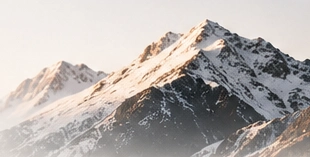
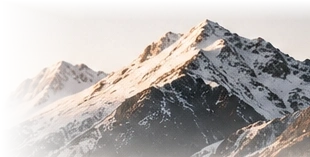
Serve verified source covers and align navigation and mobile reading order

Changed region(s): [[0.0, 0.4331, 0.2032, 1.0], [0.3194, 0.0, 1.0, 0.0764], [0.2323, 0.0, 0.2613, 0.0255]]

diff --git a/radar/read/index.html b/radar/read/index.html
@@ -34,10 +34,10 @@ a,.nav a,.crumb a,.category,.eyebrow{color:var(--copper-ink)!important}
 }
 body[data-reader-size="large"] .dek,body[data-reader-size="large"] .section p{font-size:calc(1em * 1.12)!important}
 body[data-reader-size="larger"] .dek,body[data-reader-size="larger"] .section p{font-size:calc(1em * 1.24)!important}
-</style><link rel="stylesheet" href="../assets/editorial.css"></head>
+</style><link rel="stylesheet" href="../assets/editorial.css"><script src="../assets/edition-media.js"></script></head>
 <body>
 <div class="wrap">
-<header class="masthead"><a class="brand" href="../daily/">AI RADAR <small style="font:9px Inter,sans-serif;letter-spacing:.12em;color:#686C66"> BY DAVYLAB</small></a><nav class="nav" aria-label="栏目导航"><a id="navToday" href="../daily/" data-nav="today">今日</a><a id="navChina" href="../daily/#news" data-nav="china">发现</a><a id="navDeep" href="../daily/#ai" aria-current="page" data-nav="deep">深读</a><a id="navTools" href="../daily/#skills" data-nav="tools">知识库</a><a id="navArchive" href="/niantou-box-app/#/" data-nav="archive">我的</a></nav><div class="lang" role="group" aria-label="语言"><button class="active" id="zh">中文</button><button id="en">EN</button></div></header>
+<header class="masthead"><a id="mobileBack" class="reader-back" aria-label="返回本期简报" href="../daily/">‹</a><a class="brand" href="../daily/">AI RADAR <small style="font:9px Inter,sans-serif;letter-spacing:.12em;color:#686C66"> BY DAVYLAB</small></a><nav class="nav" id="readerSections" aria-label="栏目导航"><a id="navToday" href="../daily/" data-nav="today">今日</a><a id="navChina" href="../daily/#news" data-nav="china">发现</a><a id="navDeep" href="../daily/#ai" aria-current="page" data-nav="deep">深读</a><a id="navTools" href="../daily/#skills" data-nav="tools">知识库</a><a id="navArchive" href="/niantou-box-app/#/" data-nav="archive">我的</a></nav><div class="lang" role="group" aria-label="语言"><button class="active" id="zh">中文</button><button id="en">EN</button></div><button id="readerMenu" aria-expanded="false" aria-controls="readerSections" aria-label="栏目导航" type="button">☰</button></header>
 <div class="crumb"><a id="backBrief" href="../daily/" data-nav="back">← 返回每日简报</a><span>/</span><span id="crumbType">深度阅读</span></div>
 <main id="content"><div class="eyebrow">DAVYLAB AI RADAR · DEEP READ</div><div class="empty" role="status">正在读取这篇情报…</div></main>
 <footer class="footer">Davy Radar · 看见趋势，发现机会。<span id="footerDate" style="float:right"></span></footer>
@@ -48,6 +48,14 @@ const q=new URLSearchParams(location.search),type=q.get("type")||"top5",id=Numbe
 const safeDate=/^\d{4}-\d{2}-\d{2}$/.test(date)?date:"",dataUrl=safeDate?"../data/archive/"+encodeURIComponent(safeDate)+".json":"../data/latest.json";
 const esc=x=>String(x??"").replace(/[&<>"']/g,c=>({"&":"&amp;","<":"&lt;",">":"&gt;",'"':"&quot;","'":"&#39;"}[c]));
 const $=id=>document.getElementById(id),isEn=()=>langState.value==="en",text=(zh,en)=>isEn()?en:zh;
+$("readerMenu").onclick=()=>{
+ const open=$("readerMenu").getAttribute("aria-expanded")!=="true";
+ $("readerMenu").setAttribute("aria-expanded",String(open));
+ $("readerSections").classList.toggle("expanded",open);
+};
+if(safeDate){
+ for(const id of ["backBrief","mobileBack","navToday"]) $(id).href="../daily/?date="+encodeURIComponent(safeDate);
+}
 const labels={innovation:["创新性","Innovation"],practicality:["实用性","Practicality"],feasibility:["可行性","Feasibility"],impact:["影响力","Impact"],opportunity:["机会价值","Opportunity"]};
 function showToast(s){const n=$("toast");n.textContent=s;n.classList.add("show");setTimeout(()=>n.classList.remove("show"),2200)}
 function section(title,value,cls=""){return value?'<section class="section '+cls+'"><h2>'+esc(title)+'</h2><p>'+esc(value)+'</p></section>':''}
@@ -65,18 +73,18 @@ function render(d,items){const story=(items||[])[id];if(!story){$("content").inn
  const generatedIllustration=String(x.source_url||x.url||"")==="https://chenqiyuan.cn/article/intel-81f8f3420e53b13ac744eb66"
    &&String(x.image_match_status||"")==="thematic_fallback"
    &&/Gemini Robotics 2\.5/i.test(String(name||""));
- const image=generatedIllustration?"../assets/radar-robotics-dexterity-illustration.jpg":(/^https:\/\//i.test(x.image_url||"")?x.image_url:"");
+ const image=editionImage(x)||(generatedIllustration?"../assets/radar-robotics-dexterity-illustration.jpg":(/^https:\/\//i.test(x.image_url||"")?x.image_url:""));
  const imageAlt=generatedIllustration
    ?text("AI 生成概念插画：机器人灵巧性示意，非报道现场照片。","AI-generated conceptual illustration of robotic dexterity; not a photograph of the reported event.")
    :(x.image_alt||name);
  const imageCaption=generatedIllustration
    ?text("AI 生成概念插画 · 非新闻现场照片","AI-generated conceptual illustration · not a news photograph")
-   :(x.image_alt||"");
+   :(xnews?text("原文配图 · ","Source image · ")+new URL(sourceSafe||curatedSafe||location.href).hostname:(x.image_alt||""));
  const evidence=x.confidence?text("判断把握：","Confidence: ")+({low:text("低 · 待独立验证","Low · verify independently"),medium:text("中","Medium"),high:text("高","High")}[String(x.confidence).toLowerCase()]||esc(x.confidence)):"";
  const notice=xnews?text("该内容来自 X News 的二次编辑整理；此页面展示已收录的摘要，不代表 DAVYLAB 对原文主张作出独立核验。","This item is an X News editorial summary. This page presents the collected summary; DAVYLAB has not independently verified the source claims."):text("摘要、编辑判断与行动提示均来自该期日报数据。涉及厂商自述或媒体转述的数字，请以原始来源和独立验证为准。","Summary, editorial judgment and next steps are drawn from this briefing. Verify vendor claims and reported figures against the original source.");
  $("crumbType").textContent=text("深度阅读","Deep read");$("footerDate").textContent=d.report_date||"";
  document.title=esc(name)+" · 深度阅读 · DAVYLAB";
- $("content").innerHTML='<div class="eyebrow">'+(xnews?"X NEWS · DAVYLAB DEEP READ":"DAVYLAB AI RADAR · DEEP READ")+'</div><span class="category">'+esc(category)+'</span><div class="layout"><article class="story"><h1 class="title">'+esc(name||"AI 情报")+'</h1><p class="dek">'+esc(summary||what||text("本条日报未提供摘要，请打开原始来源阅读。","No summary was included in this briefing. Open the original source for details."))+'</p>'+'<div class="provenance"><span><strong>'+text("来源","Source")+'</strong> · '+esc(x.source||"AI Radar")+'</span><span><strong>'+text("发布时间","Published")+'</strong> · '+esc(published)+'</span>'+(evidence?'<span><strong>'+esc(evidence)+'</strong></span>':'')+'</div>'+(image?'<img class="cover" src="'+esc(image)+'" alt="'+esc(imageAlt)+'" loading="eager" referrerpolicy="no-referrer" onerror="this.hidden=true">'+(imageCaption?'<p class="caption">'+esc(imageCaption)+'</p>':''):'')+section(xnews?text("核心观点","Key point"):text("发生了什么","What happened"),what,xnews?"judgment":"")+section(text("为什么值得关注","Why it matters"),why)+section(text("核心观点 · 编辑判断","Key point · Editorial judgment"),judgment,"judgment")+section(text("机会与风险","Opportunity and risk"),risk)+section(text("可以继续做什么","A next step"),action)+scoreBlock(x.scores)+'</article><aside class="rail"><h2>'+text("阅读说明","READING NOTES")+'</h2><p>'+esc(notice)+'</p><div class="notice" '+(xnews?"":"hidden")+'>'+esc(text("X News 中文编辑链接保留在下方，原文请优先查阅。","The X News editorial link is retained below; consult the original source first."))+'</div><div class="rail-links">'+(sourceSafe?'<a class="primary" href="'+esc(sourceSafe)+'" target="_blank" rel="noopener noreferrer">'+text("打开原始来源 ↗","Open original source ↗")+'</a>':'')+(curatedSafe?'<a href="'+esc(curatedSafe)+'" target="_blank" rel="noopener noreferrer">'+text("X News 中文解读 ↗","X News editorial ↗")+'</a>':'')+'<button class="action" id="share">'+text("复制本页链接","Copy this page link")+'</button><a href="../daily/'+(safeDate?"?date="+encodeURIComponent(safeDate):"")+'">'+text("回到本期简报","Return to this briefing")+'</a></div><p>'+text("归档日期","Archive date")+' · '+esc(d.report_date||"—")+'</p></aside></div>';
+ $("content").innerHTML='<div class="eyebrow">'+(xnews?"X NEWS · DAVYLAB DEEP READ":"DAVYLAB AI RADAR · DEEP READ")+'</div><span class="category">'+esc(category)+'</span><div class="layout"><article class="story"><h1 class="title">'+esc(name||"AI 情报")+'</h1><p class="dek'+(xnews && summary===what ? ' repeated-excerpt' : '')+'">'+esc(summary||what||text("本条日报未提供摘要，请打开原始来源阅读。","No summary was included in this briefing. Open the original source for details."))+'</p>'+'<div class="provenance"><span><strong>'+text("来源","Source")+'</strong> · '+esc(x.source||"AI Radar")+'</span><span><strong>'+text("发布时间","Published")+'</strong> · '+esc(published)+'</span>'+(evidence?'<span><strong>'+esc(evidence)+'</strong></span>':'')+'</div>'+(image?'<img class="cover" src="'+esc(image)+'" alt="'+esc(imageAlt)+'" loading="eager" referrerpolicy="no-referrer" onerror="this.hidden=true">'+(imageCaption?'<p class="caption">'+esc(imageCaption)+'</p>':''):'')+section(xnews?text("核心观点","Key point"):text("发生了什么","What happened"),what,xnews?"judgment":"")+section(text("为什么值得关注","Why it matters"),why)+section(text("核心观点 · 编辑判断","Key point · Editorial judgment"),judgment,"judgment")+section(text("机会与风险","Opportunity and risk"),risk)+section(text("可以继续做什么","A next step"),action)+scoreBlock(x.scores)+'</article><aside class="rail"><h2>'+text("阅读说明","READING NOTES")+'</h2><p>'+esc(notice)+'</p><div class="notice" '+(xnews?"":"hidden")+'>'+esc(text("X News 中文编辑链接保留在下方，原文请优先查阅。","The X News editorial link is retained below; consult the original source first."))+'</div><div class="rail-links">'+(sourceSafe?'<a class="primary" href="'+esc(sourceSafe)+'" target="_blank" rel="noopener noreferrer">'+text("打开原始来源 ↗","Open original source ↗")+'</a>':'')+(curatedSafe?'<a href="'+esc(curatedSafe)+'" target="_blank" rel="noopener noreferrer">'+text("X News 中文解读 ↗","X News editorial ↗")+'</a>':'')+'<button class="action" id="share">'+text("复制本页链接","Copy this page link")+'</button><a href="../daily/'+(safeDate?"?date="+encodeURIComponent(safeDate):"")+'">'+text("回到本期简报","Return to this briefing")+'</a></div><p>'+text("归档日期","Archive date")+' · '+esc(d.report_date||"—")+'</p></aside></div>';
  const share=$("share");if(share)share.onclick=async()=>{try{await navigator.clipboard.writeText(location.href);showToast(text("链接已复制","Link copied"))}catch{showToast(text("无法访问剪贴板，请手动复制地址栏链接。","Clipboard unavailable. Copy the address bar link."))}};
 }
 function switchLang(next){langState.value=next;const nav={today:["今日","Today"],deep:["深读","Deep reads"],china:["发现","Discover"],tools:["知识库","Library"],archive:["我的","Saved"],back:["← 返回每日简报","← Back to briefing"]};document.querySelectorAll("[data-nav]").forEach(n=>{const pair=nav[n.dataset.nav];if(pair)n.textContent=pair[next==="en"?1:0]});document.querySelectorAll("[data-nav=deep]").forEach(n=>n.href=location.href);$("zh").classList.toggle("active",next==="zh");$("en").classList.toggle("active",next==="en");document.documentElement.lang=next==="zh"?"zh-CN":"en";if(window.briefData)render(window.briefData,window.storyList);refreshReaderControlLabels()}

diff --git a/radar/daily/index.html b/radar/daily/index.html
@@ -1067,11 +1067,11 @@ a,.nav-right>a,.archive-button,.top5-card .meta a,.footer a{color:var(--copper-i
 .story-image--generated{background:#D8D2C8!important}
 .story-image--generated img{object-position:72% center!important}
 .editorial-illustration-tag{position:absolute;top:12px;right:12px;z-index:4;padding:5px 8px;border:1px solid rgba(32,35,32,.18);border-radius:2px;background:rgba(247,245,240,.96);color:var(--ink);font:600 9px/1.2 var(--sans);letter-spacing:.045em}
-</style><link rel="stylesheet" href="../assets/editorial.css"></head>
+</style><link rel="stylesheet" href="../assets/editorial.css"><script src="../assets/edition-media.js"></script></head>
 <body><div class="wrap">
 <nav class="nav"><a class="brand" href="../daily/" aria-label="AI Radar by DAVYLAB">AI RADAR <small>BY DAVYLAB</small></a><div class="primary-nav" aria-label="主导航"><a aria-current="page" href="#ai" data-i18n="navToday">今日</a><a href="#news" data-i18n="navDiscover">发现</a><a id="deepReadNav" href="#top5List" data-i18n="navDeep">深读</a><a href="#skills" data-i18n="navKnowledge">知识库</a><a href="https://chenzhe223-tech.github.io/niantou-box-app/#/" target="_blank" rel="noopener noreferrer" data-i18n="navMine">我的</a></div><div class="nav-right"><button class="edition-search" aria-label="搜索本期简报 / Search this issue" type="button" id="openSearch"><span class="glass" aria-hidden="true"></span></button><a class="subscribe" href="../data/brief.xml" data-i18n="subscribe">订阅</a><div class="lang-switch" role="group" aria-label="语言 / Language"><button class="lang-btn active" id="langZh" type="button" aria-pressed="true" onclick="setLang('zh')">中文</button><button class="lang-btn" id="langEn" type="button" aria-pressed="false" onclick="setLang('en')">EN</button></div><a href="../" data-i18n="back">← 返回 Davy Radar</a></div></nav>
 <header><div class="hero-panel"><div class="hero-kicker"><i></i><span data-i18n="kicker">GLOBAL AI INTELLIGENCE</span></div><div class="brief-date-bar" aria-label="简报日期与历史简报"><div class="brief-date-copy"><span class="brief-eyebrow">DAILY BRIEFING</span><div class="brief-date-line"><span data-i18n="todayBrief">今日简报</span><strong id="reportDate">正在读取日报…</strong></div><span id="reportDateFull" class="date-full"></span></div><div class="brief-date-actions"><label for="archiveDate" class="archive-button"><span aria-hidden="true">▦</span><span data-i18n="archiveLabel">历史简报</span><span aria-hidden="true">⌄</span></label><select id="archiveDate" aria-label="选择历史简报日期"><option value="">加载历史记录…</option></select></div></div><div class="hero"><div class="hero-copy"><h1 id="featureTitle" data-i18n="heroTitle">理解 AI 世界的每一天。</h1><p class="sub" id="featureSub" data-i18n="heroSub">全球 AI 新闻、技术突破与深度观点，一站阅读。</p><div class="hero-actions"><a href="#news" data-i18n="exploreNews">✦ 看看今天发生了什么</a><a class="secondary" href="#skills" data-i18n="exploreSkills">⌘ 发现可用工具</a></div></div></div></div>
-<nav class="tabs" aria-label="简报栏目"><a class="tab active" href="#ai" data-i18n="tabInsights">✨ 今日观察</a><a class="tab" href="#chinaAI" data-i18n="tabChina">🇨🇳 中国 AI 动态</a><a class="tab" href="#dailySkill" data-i18n="tabDailySkill">✦ 今日 Skill 推荐</a><a class="tab" href="#skills" data-i18n="tabSkills">🧰 创作工具箱</a><a class="tab" href="#news" data-i18n="tabMore">更多 →</a></nav></header>
+<nav class="tabs" aria-label="简报栏目"><a class="tab active" href="#ai" data-i18n="navToday">今日</a><a class="tab" href="#news" data-i18n="navDiscover">发现</a><a class="tab" id="deepReadTab" href="#xnewsVoicesSection" data-i18n="navDeep">深读</a><a class="tab" href="#chinaAI" data-i18n="navChina">中国 AI</a><a class="tab" href="#skills" data-i18n="navResearch">研究</a></nav></header>
 <section id="ai" aria-label="今日头条与五大热点"><div class="section-head"><h2><span class="section-icon">✨</span><span data-i18n="aiHeading">今日观察 · AI 机会研判</span></h2><p data-i18n="aiSub">编辑精选 · 事实、影响与行动</p></div><div id="aiList" class="list"><div class="empty">今日五大热点正在生成…</div></div><article id="leadStory" class="lead-story" aria-label="今日头条"><div class="empty">正在读取今日头条…</div></article><div id="editorialCore" class="editorial-core" hidden></div><div id="top5List" class="top5-grid"><div class="empty">正在读取五大热点…</div></div></section>
 <div class="secondary-editorial-grid"><section id="xnewsVoicesSection" style="display:none"><div class="section-head"><h2><span class="section-icon">🌍</span><span>海外深度 · X News 精读</span></h2><p>创始人观点 · AI 视频 · 原文可追溯</p></div><p class="section-intro">来自 <a href="https://xnews.qiaomu.ai/" target="_blank" rel="noopener noreferrer">X News · 海外发现</a> 的补充阅读线索。保留原作者出处与中文编辑解读链接；入选不等于 DAVYLAB 已独立核验其结论。</p><div id="xnewsVoices" class="list"></div></section><section id="chinaAI"><div class="section-head"><h2><span class="section-icon">🇨🇳</span><span data-i18n="chinaHeading">中国 AI 发展动态</span></h2><p data-i18n="chinaSub">国产模型 · 产品应用 · 芯片算力 · 具身智能</p></div><p class="section-intro" data-i18n="chinaIntro">聚焦中国 AI 企业、研究机构与产业落地，只展示带有原文链接和可核验发布时间的近期消息。</p><div id="chinaAINewsList" class="top5-grid china-news-grid"><div class="empty">正在读取中国 AI 动态…</div></div><a class="rail-poster" href="../posters/latest.png" target="_blank" rel="noopener noreferrer"><img src="../posters/latest.png" alt="AI Radar daily poster"><span><strong>今日简报海报</strong><small>AI Daily · 下载高清海报 ↗</small></span></a></section></div>
 <section id="dailySkill"><div class="section-head"><h2><span class="section-icon">✦</span><span>今日推荐 · 值得尝试的 Skill</span></h2><p>功能 · 推荐理由 · 应用范围</p></div><div id="featuredSkill" class="featured-skill"><div class="empty">正在读取今日推荐…</div></div></section>
@@ -1201,7 +1201,7 @@ function storyImageMarkup(x){
 function renderTop5(items){
  const root=$("top5List");if(!root)return;
  const data=(items||[]).slice(0,5);
- const deepUrl=data.length?deepReadHref("top5",0):"../read/";["deepReadNav","deepReadDock"].forEach(id=>{const link=$(id);if(link)link.href=deepUrl});
+ const deepUrl=data.length?deepReadHref("top5",0):"../read/";["deepReadNav","deepReadDock","deepReadTab"].forEach(id=>{const link=$(id);if(link)link.href=deepUrl});
  const dims=[["innovation","dimInnovation"],["practicality","dimPracticality"],["feasibility","dimFeasibility"],["impact","dimImpact"],["opportunity","dimOpportunity"]];
 
  if(data.length<5||data.some(x=>x.fallback||!x.scores||!x.source_url)){
@@ -1268,7 +1268,7 @@ function renderXnewsVoices(items){
   const title=currentLang==="en"?(x.title_en||x.title):(x.title_zh||x.title);
   const summary=currentLang==="en"?(x.summary_en||""):(x.summary_zh||x.summary||"");
   const hasCover=x.image_match_status==="article_image" && /^https:\/\//i.test(x.image_url||"");
-  const cover=hasCover ? '<a class="voice-cover" aria-hidden="true" tabindex="-1" href="'+esc(deepReadHref("xnews",index))+'"><img loading="lazy" referrerpolicy="no-referrer" alt="'+esc(x.image_alt||title)+'" src="'+esc(x.image_url)+'" onerror="this.parentElement.hidden=true"></a>' : "";
+  const cover=hasCover ? '<a class="voice-cover" aria-hidden="true" tabindex="-1" href="'+esc(deepReadHref("xnews",index))+'"><img loading="lazy" referrerpolicy="no-referrer" alt="'+esc(x.image_alt||title)+'" src="'+esc(editionImage(x)||x.image_url)+'" onerror="this.parentElement.hidden=true"></a>' : "";
   return '<article class="item">'+cover+'<div class="num">'+String(i+1).padStart(2,"0")+'</div><div><div class="story-label">X NEWS · '+esc(currentLang==="en"?"International voices":"海外精选")+'</div><h3><a href="'+esc(deepReadHref("xnews",index))+'">'+esc(title)+'</a></h3><p class="explain">'+esc(summary||t("fallbackSummary"))+'</p><div class="meta"><span>'+esc(t("published"))+' · '+esc(dateFmt(x.published))+'</span><span class="pill">'+esc(currentLang==="en"?"Curated · not independently verified":"二次编辑 · 待独立核验")+'</span><a href="'+esc(x.url)+'" target="_blank" rel="noopener noreferrer">'+esc(currentLang==="en"?"Original source ↗":"原作者原文 ↗")+'</a><a href="'+esc(x.curated_url)+'" target="_blank" rel="noopener noreferrer">'+esc(currentLang==="en"?"Chinese editorial ↗":"X News 中文解读 ↗")+'</a></div></div></article>';
  }).join(""):'<div class="empty xnews-empty">'+esc(currentLang==="en"?"No verified X News deep reads are available in this issue.":"本期暂无通过来源校验的 X News 深读。")+' <a href="https://xnews.qiaomu.ai/" target="_blank" rel="noopener noreferrer">'+esc(currentLang==="en"?"Explore X News ↗":"查看 X News 海外发现 ↗")+'</a></div>';
 }
@@ -1317,6 +1317,9 @@ function renderFeatured(items){
  root.classList.toggle("has-image",hasImage);
  root.classList.toggle("text-only",!hasImage);
  root.innerHTML=`<a href="${esc(deep)}" aria-label="${esc(currentLang==="en"?"Open lead story deep read":"打开头条深读")}">${media}<div class="lead-story-copy"><span class="lead-story-label">${esc(leadLabel)}</span><h2>${esc(title||"Untitled story")}</h2><p>${esc(summary||t("fallbackSummary"))}</p><div class="lead-story-meta"><span>${esc(source)} · ${esc(published)}</span><span>${esc(currentLang==="en"?"Deep read →":"深读 →")}</span></div></div></a>`;
+ const leadImage=root.querySelector(".story-image img");
+ if(leadImage && editionImage(story,true)) leadImage.src=editionImage(story,true);
+
 }
 function formatReportDate(dateString){const match=/^(\\d{4})-(\\d{2})-(\\d{2})$/.exec(String(dateString||""));if(!match)return {short:dateString||t("headline"),full:""};const year=Number(match[1]),month=Number(match[2]),day=Number(match[3]);const d=new Date(year,month-1,day,12);const locale=currentLang==="en"?"en-US":"zh-CN";const short=currentLang==="en"?d.toLocaleDateString(locale,{month:"short",day:"numeric"}):`${month}月${day}日`;return {short,full:d.toLocaleDateString(locale,{year:"numeric",month:"long",day:"numeric",weekday:"long"})}}
 function renderAll(data){applyDailyHeroTheme(data.report_date,(data.top5||[])[0]);renderAI(data.ai_analysis);renderEditorial(data);renderFeatured(data.top5||[]);renderTop5(data.top5||[]);renderNews(data.news||[]);renderXnewsVoices(data.xnews_voices||[]);renderChinaAINews(data.china_ai_news||[]);renderSkills(data.skills||[]);renderFeaturedSkill(data.skills||[]);const date=formatReportDate(data.report_date);$("reportDate").textContent=date.short;$("reportDateFull").textContent=date.full;const statusNode=$("status");if(statusNode)statusNode.textContent=t("status")+": "+(data.status||"ok")+" · "+t("sources")+" "+(data.sources_ok??"—")+" / "+(data.sources_total??"—")+" · "+t("scoreNote")}

diff --git a/radar/assets/editorial.css b/radar/assets/editorial.css
@@ -49,7 +49,7 @@ header .hero-panel {
 #chinaAINewsList .china-ai-card { border: 0 !important; border-bottom: 1px solid var(--rule) !important; background: transparent !important; }
 #chinaAINewsList .china-ai-card:not(:first-child) .story-image, #chinaAINewsList .china-ai-card p, #chinaAINewsList .top5-card::after { display: none !important; }
 #chinaAINewsList .top5-content { padding: 8px 0 !important; }
-#chinaAINewsList .top5-rank { display: none !important; }
+#chinaAINewsList .top5-rank { float: left; margin: 8px; }
 #chinaAINewsList a, #xnewsVoices h3 a { color: var(--ink) !important; text-decoration: none; }
 #chinaAINewsList a:hover, #xnewsVoices h3 a:hover { text-decoration: underline; }
 #xnewsVoices .item { border-radius: var(--card-edge); }
@@ -58,22 +58,29 @@ header .hero-panel {
 .story .cover { border-radius: var(--card-edge); }
 .story .title { font-size: clamp(34px,3.5vw,52px) !important; }
 .story .provenance { margin: 14px 0; }
+.story .caption { color: #555a53; }
 .story .judgment { background: #f0e9df; padding: 18px !important; border-radius: 8px; }
+.reader-back, #readerMenu { display: none; }
 @media (min-width: 761px) {
-  .nav:has(.primary-nav) { display: grid !important; grid-template-columns: 1fr auto 1fr; }
+  .nav:has(.primary-nav) { display: grid !important; grid-template-columns: minmax(0,1fr) auto minmax(0,1fr); }
   .nav .nav-right { justify-self: end; }
   .hero-panel .brief-date-actions { margin-left: auto; }
   header .tabs { margin-bottom: 0 !important; }
+  header:has(.hero-panel) .tabs { display: none !important; }
+  #top5List .top5-card { padding: 9px 0 !important; }
 }
 @media (max-width: 760px) {
   .nav-right { margin-left: auto; gap: 4px; }
   .nav-right .subscribe { display: none; }
   header .hero-panel { min-height: 190px !important; padding: 12px 16px !important; background-size: 100% 100%,auto 80% !important; background-position: right bottom !important; }
-  .hero-panel #featureTitle { max-width: 9em !important; font-size: 30px !important; line-height: 1.18 !important; }
+  .hero-panel #featureTitle { max-width: 8em !important; font-size: 30px !important; line-height: 1.18 !important; }
   .hero-panel .brief-date-copy { min-width: 0; }
   header .tabs { gap: 16px !important; }
   #ai > #top5List { width: 100%; }
   #leadStory .lead-story-copy { max-width: 100%; }
+  #leadStory.has-image > a { display: flex; align-items: flex-end; }
+  #leadStory.has-image .lead-story-copy { position: relative !important; inset: auto !important; width: 100%; padding: 16px !important; }
+  .nav .brand small { display: none; }
   #leadStory .lead-story-copy h2 { font-size: 24px !important; line-height: 1.23 !important; }
   #leadStory .lead-story-copy p { display: -webkit-box; -webkit-line-clamp: 2; -webkit-box-orient: vertical; overflow: hidden; }
   #content > .eyebrow, #content > .category { display: none; }
@@ -84,4 +91,12 @@ header .hero-panel {
   .story .provenance { order: -2; padding: 8px 0; margin: 4px 0 8px; }
   .story .judgment { order: -1; margin: 8px 0; }
   .story .dek { margin: 8px 0; }
+  .story .dek.repeated-excerpt { display: none; }
+  .masthead { position: relative; }
+  .masthead .brand, .masthead + .crumb { display: none; }
+  .reader-back, #readerMenu { display: grid; place-items: center; border: 0; background: none; min-width: 42px; min-height: 42px; color: var(--ink); font-size: 24px; cursor: pointer; }
+  .masthead .lang { margin-left: auto; }
+  .masthead .nav.expanded { display: grid; position: absolute; z-index: 5; top: 100%; right: 0; min-width: 155px; padding: 10px 18px; border: 1px solid var(--rule); border-radius: 8px; background: var(--paper); }
+  .masthead .nav.expanded a { padding: 8px 0; }
+  #content { padding-top: 8px; }
 }

diff --git a/radar/assets/edition-search.js b/radar/assets/edition-search.js
@@ -17,7 +17,7 @@
     const seen = new Set();
     for (const [stories, link] of sections) {
       for (const [i, story] of (stories || []).entries()) {
-        const title = (en ? story.title_en : story.title_zh) || story.title || story.full_name;
+        const title = (en ? story.title_en : story.title_zh) || story.title || story.full_name || story.name;
         if (!title || seen.has(title) || !title.toLocaleLowerCase().includes(query)) continue;
         const href = link(story, i);
         if (!href || !(/^(https:\/\/|\.\.\/read\/\?)/i).test(href)) continue;

diff --git a/radar/assets/edition-media.js b/radar/assets/edition-media.js
@@ -1,0 +1,7 @@
+// Dated thumbnails are derived from the HTTPS image kept on the report record.
+function editionImage(record, lead = false) {
+  const local = (lead && record.image_local_lead) || record.image_local || "";
+  const verified = record.image_match_status === "article_image" && /^https:\/\//i.test(record.image_url || "");
+  return verified && /^\.\.\/assets\/editions\/\d{4}-\d{2}-\d{2}\/[a-z0-9-]+\.webp$/.test(local)
+    ? local : "";
+}
